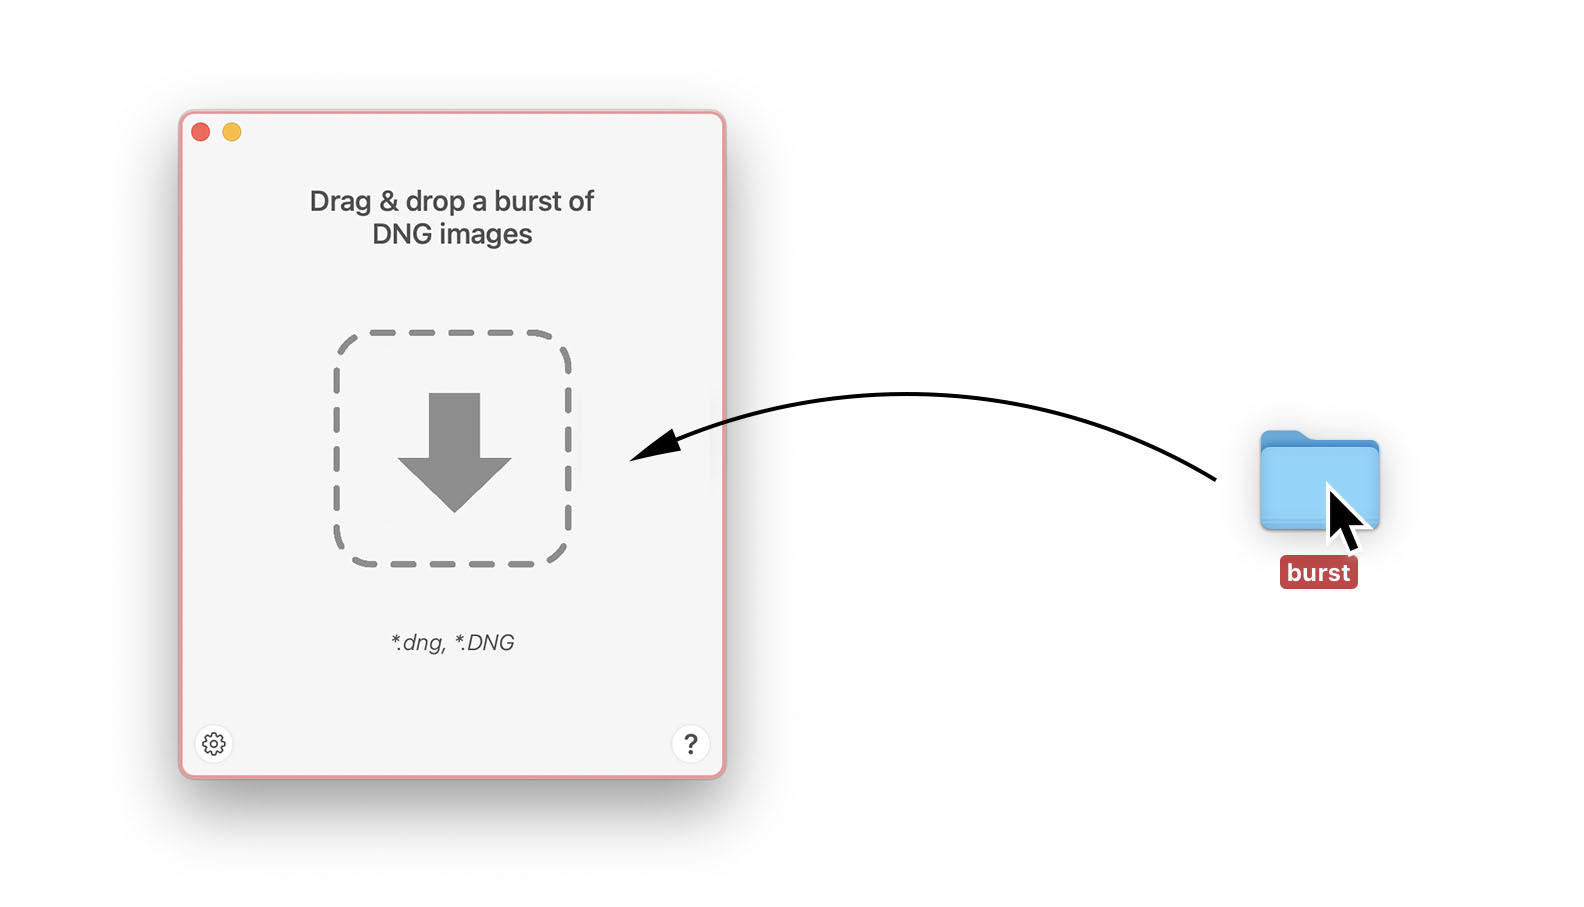
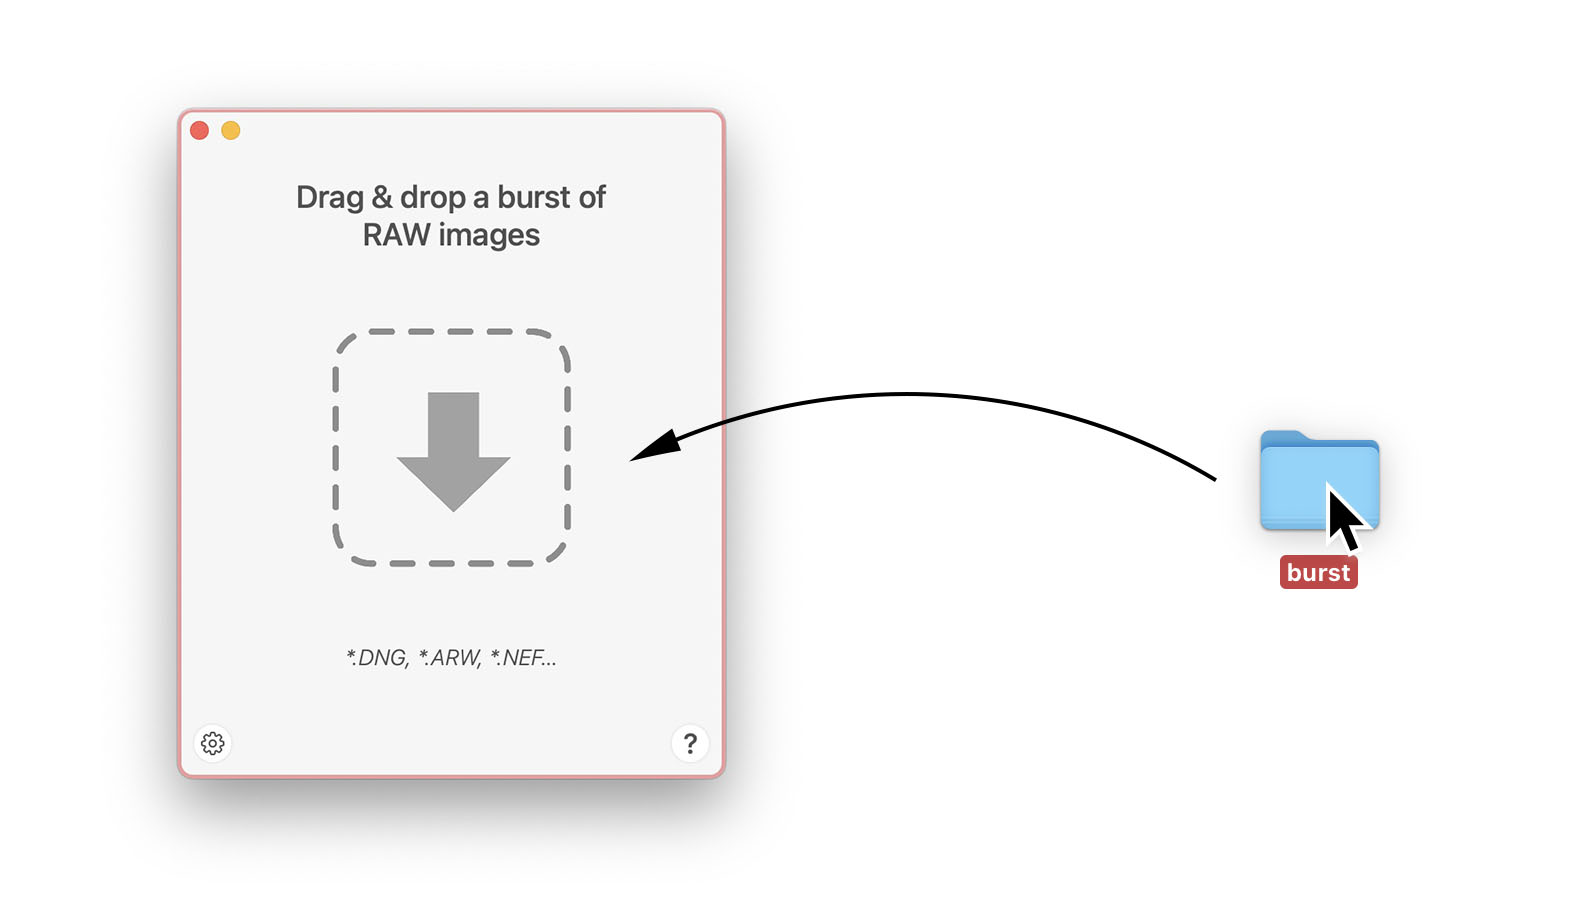
updated raw/dng documentation

diff --git a/docs/_pages/guide.md b/docs/_pages/guide.md
@@ -9,17 +9,13 @@ Our app takes as input a burst of images and stacks them to produce a single out
 
 The app relies on aligning and merging a burst of similar images. Ideally, try to capture at least 5 - 10 sharp images without significant movement between them. It is okay if you take the burst handheld or if a person moves slightly between the photos. However, try to avoid motion blur and significant movement between images (for example a person tilting their head or changing their smile).
 
-### Converting images to DNG
+### Image formats
 
-Currently, the only supported image format is DNG with raw data. Confusingly, not all DNG images contain raw data. We suggest using [Adobe DNG Converter](https://helpx.adobe.com/camera-raw/using/adobe-dng-converter.html) or [Adobe Lightroom](https://www.adobe.com/products/photoshop-lightroom.html) to convert raw images into DNG. The following settings are recommended:
-
-{% include figure image_path="/assets/images/help/lightroom_settings.png" caption="Lightroom" %}
-
-{% include figure image_path="/assets/images/help/dng_converter_settings.png" caption="DNG Converter" %}
+The only *natively* supported image format is DNG. However, if you download and install [Adobe DNG Converter](https://helpx.adobe.com/camera-raw/using/adobe-dng-converter.html), Burst Photo will be able to convert most RAW formats in the background.
 
 ### Loading images
 
-To process a burst of DNG images, please drag-and-drop them into the app. You can either drag-and-drop individual images or a folder containing the whole burst.
+To process a burst of images, please drag-and-drop them into the app. You can either drag-and-drop individual images or a folder containing the whole burst.
 
 {% include figure image_path="/assets/images/help/drag-and-drop.jpg" %}
 
